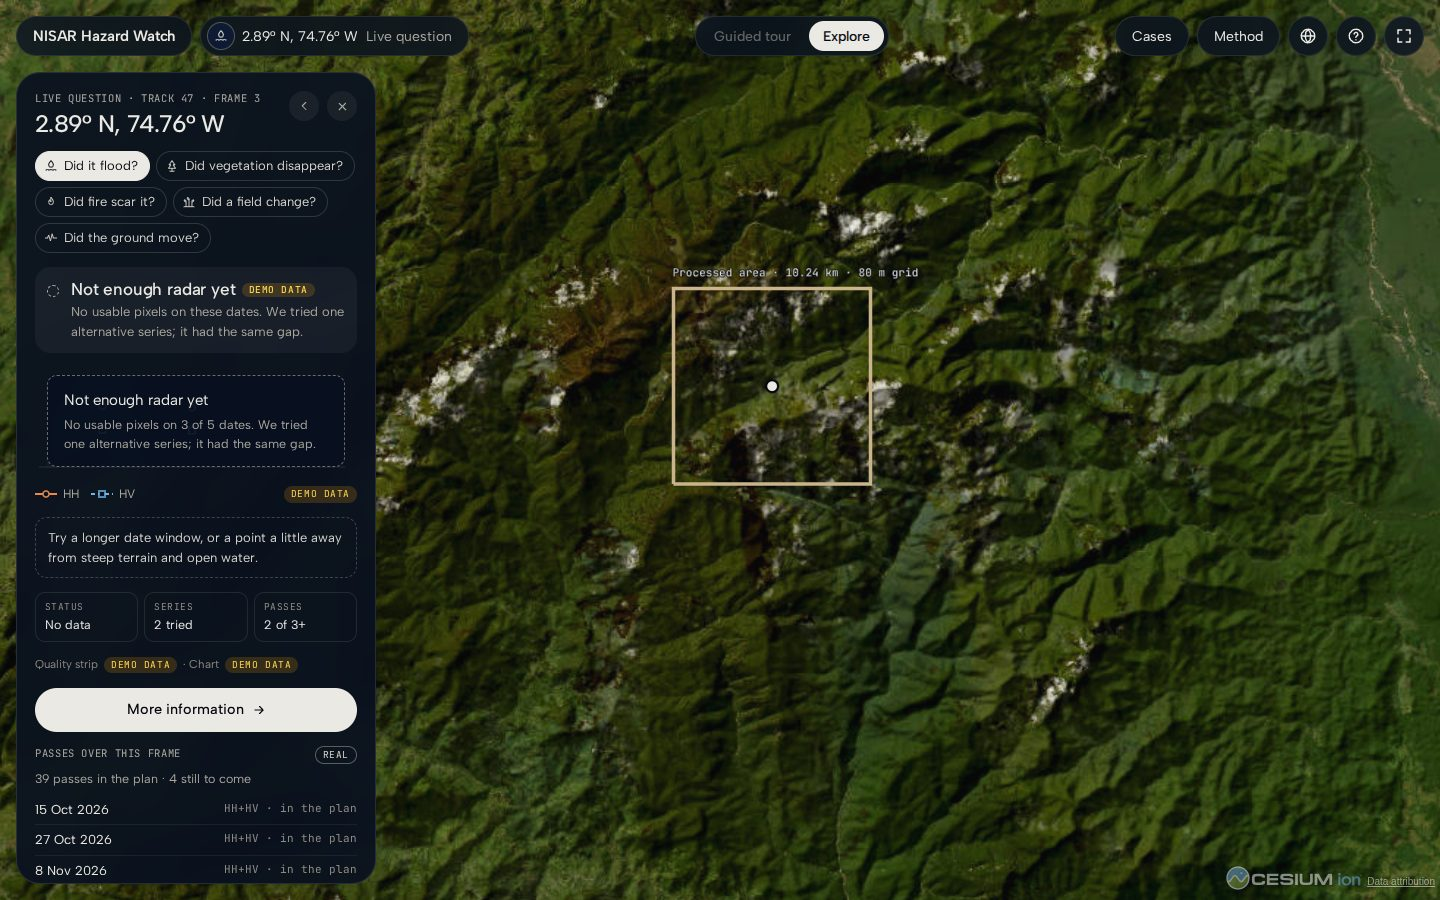
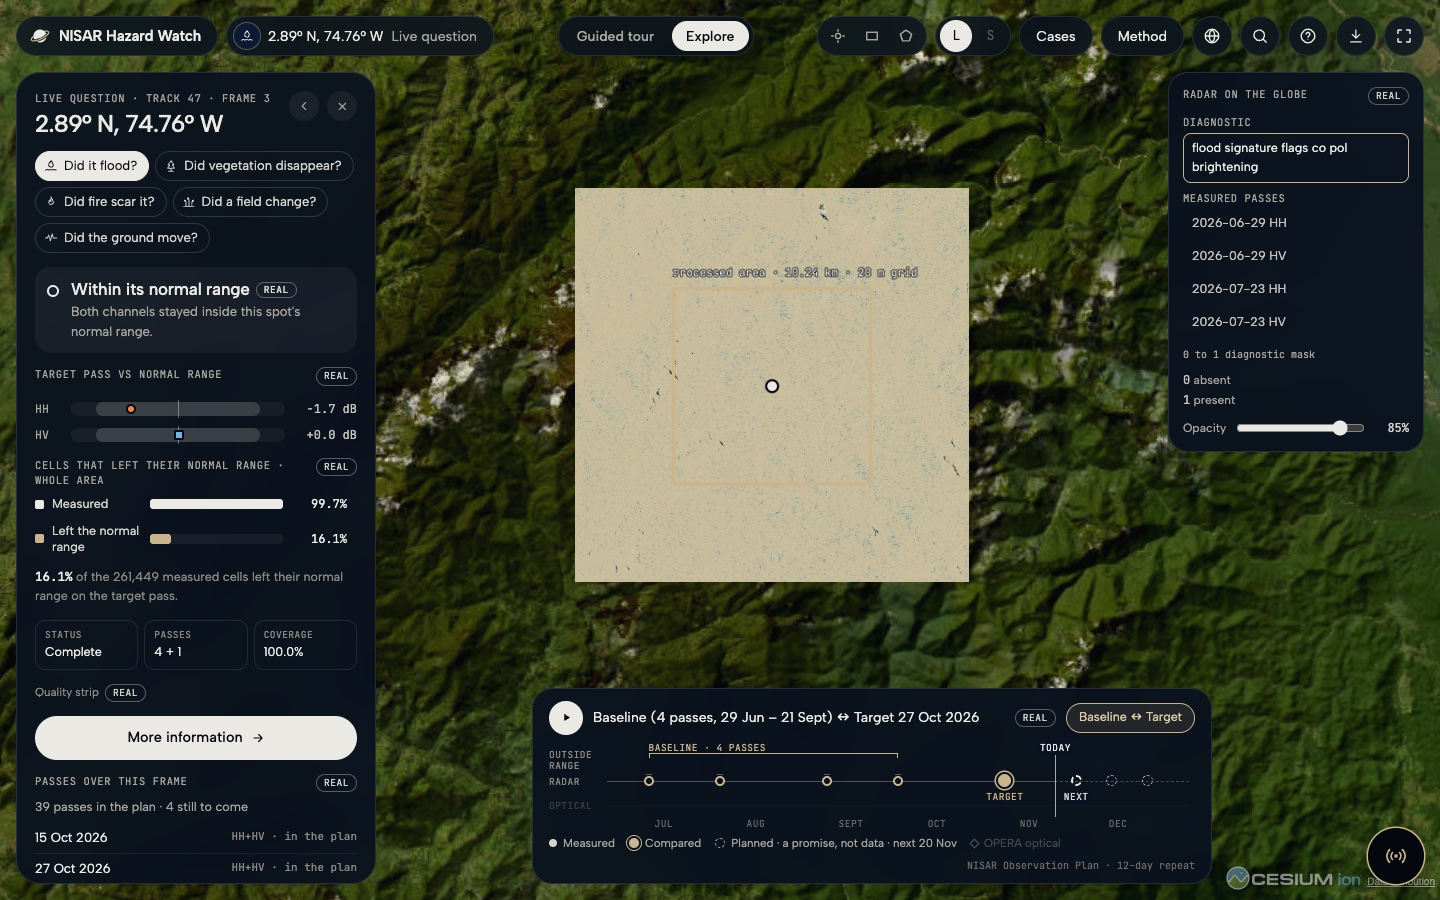
docs: refresh the live question screenshot with a real production answer
The README showed the old demo answer. The new image is a real run of the deployed
site (Vercel, Railway and the Modal gateway) on track 47, frame 3.

diff --git a/README.md b/README.md
@@ -126,11 +126,11 @@ Shareable explorer links: `/explore?case=qadirabad` opens a measured case;
 <table>
   <tr>
     <td width="50%"><img src="docs/screenshots/explorer-start.jpg" alt="Explorer start card listing the measured cases over the globe with case markers"></td>
-    <td width="50%"><img src="docs/screenshots/explorer-live.jpg" alt="A live question on track 47, frame 3 and the frame's real passes from the Observation Plan"></td>
+    <td width="50%"><img src="docs/screenshots/explorer-live.jpg" alt="A live question on track 47, frame 3: the radar's answer from the backend, the target pass against its normal range and a measured layer on the globe"></td>
   </tr>
   <tr>
     <td align="center"><b>What did the radar see?</b><br><sub>The start card and case markers</sub></td>
-    <td align="center"><b>A live question</b><br><sub>The frame's real passes</sub></td>
+    <td align="center"><b>A live question</b><br><sub>A measured answer from the backend</sub></td>
   </tr>
 </table>
 
